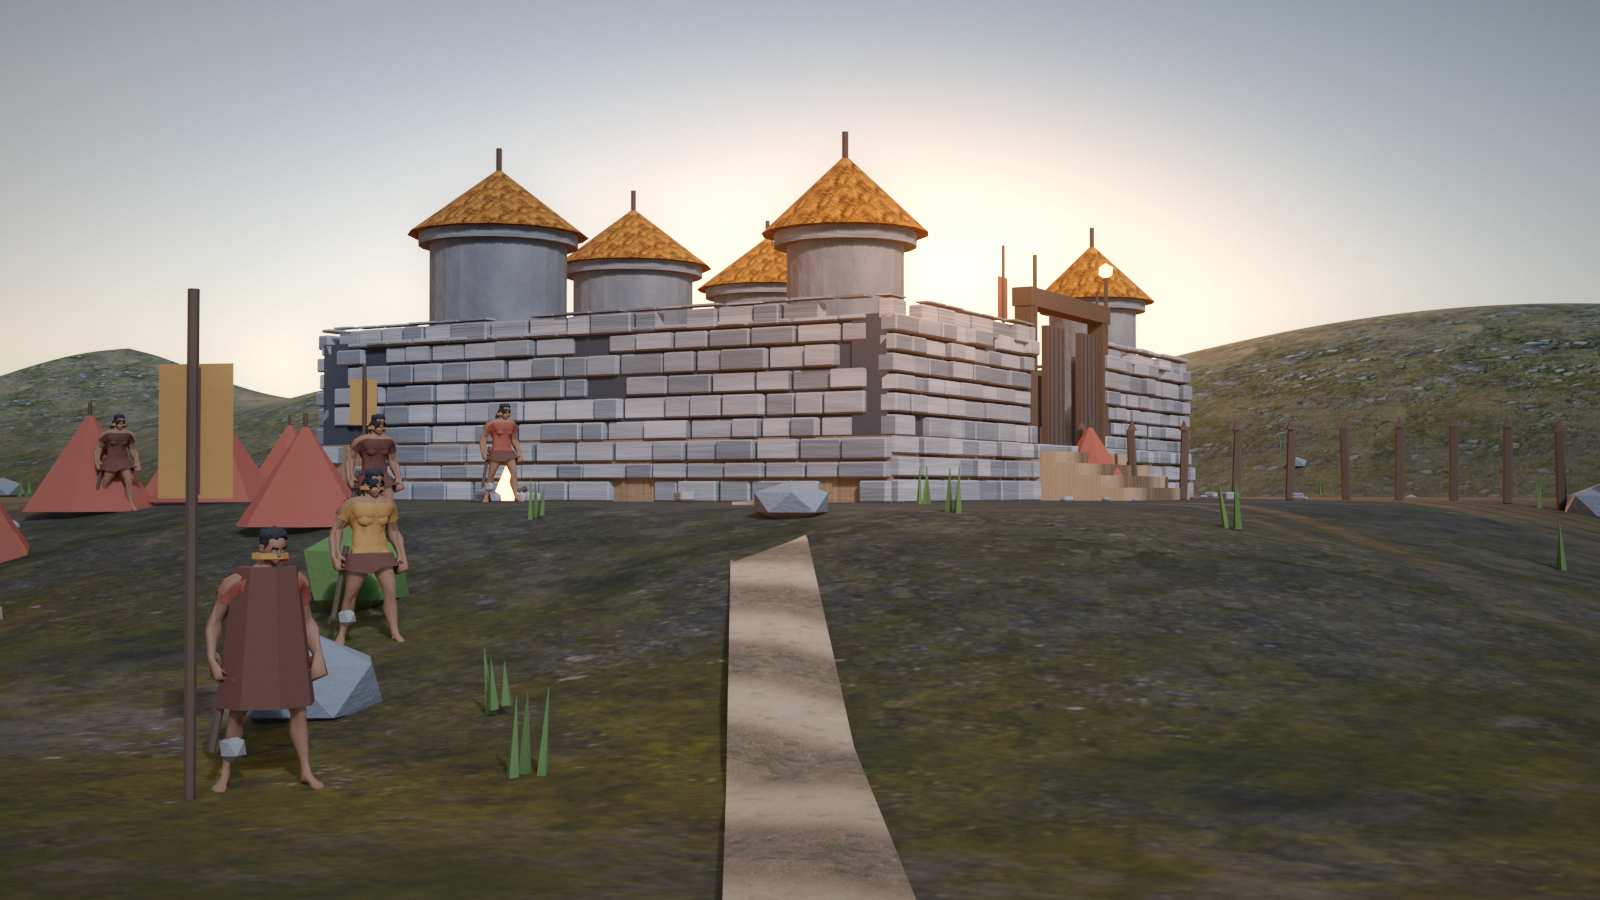
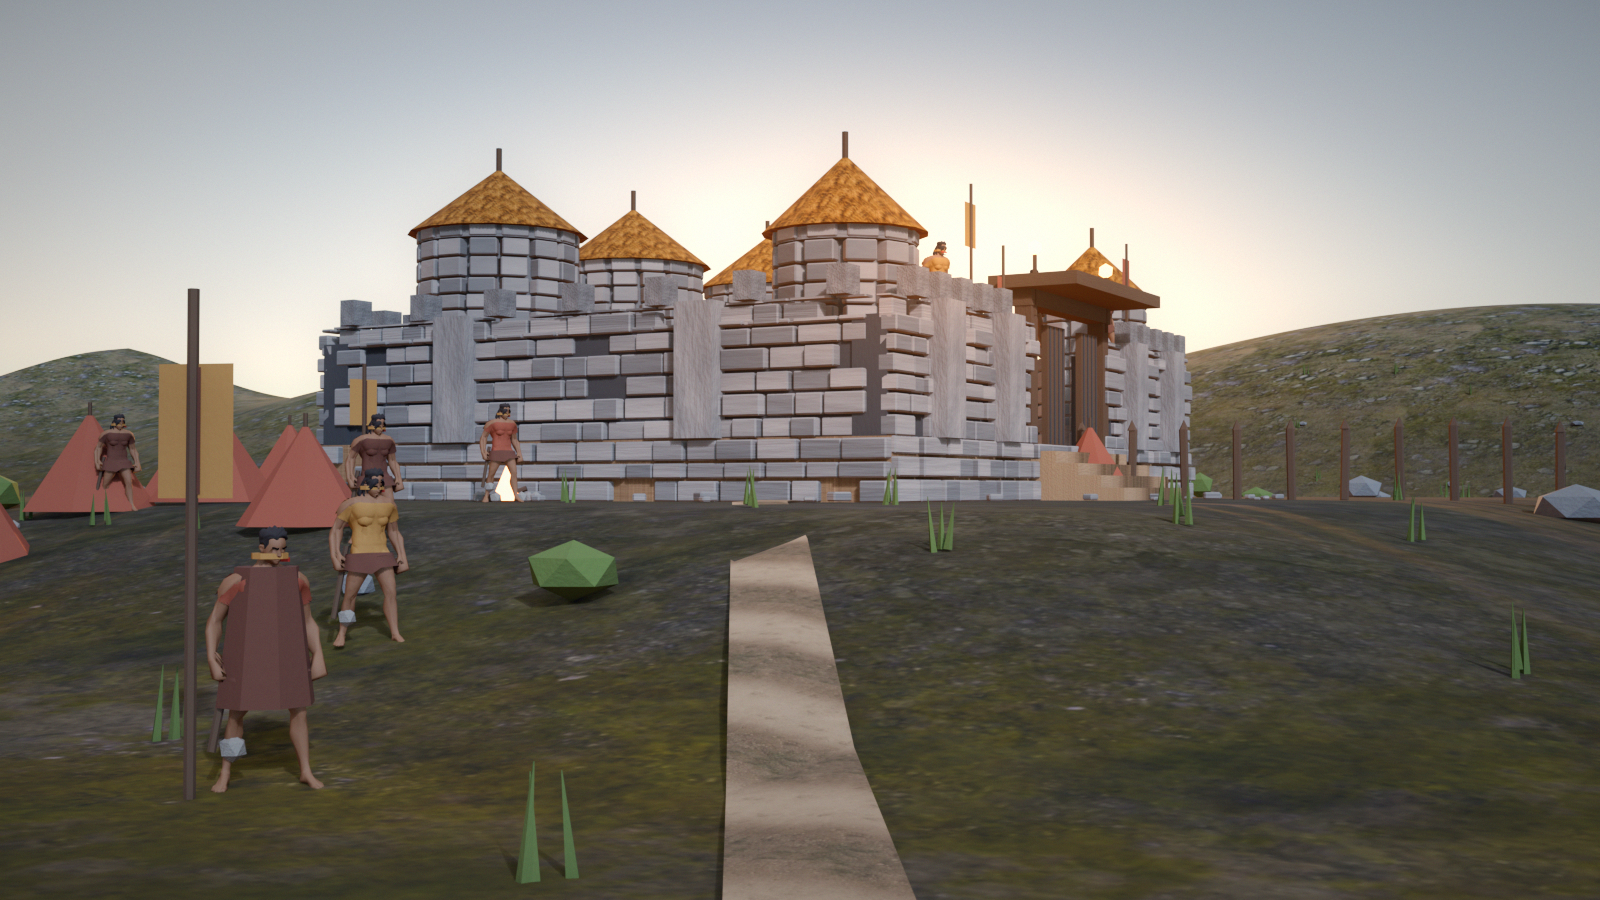
art: detail the m5 pucara and approach
Add tower stone rings, buttresses, merlons, a gate canopy, wall guards, denser masonry and a wider sunset composition. Still a draft, not reviewed.

diff --git a/scripts/blender/build_chanca_intro.py b/scripts/blender/build_chanca_intro.py
@@ -564,6 +564,21 @@ def stone_variant(name: str, base: tuple[float, float, float]):
     return mat
 
 
+def tower_stones(bm, wx, wy, radius, base_z, height):
+    z = base_z
+    while z < base_z + height:
+        h = min(RNG.uniform(0.3, 0.42), base_z + height - z)
+        count = max(9, int((2 * math.pi * radius) / 0.62))
+        for i in range(count):
+            theta = (i / count) * math.tau + RNG.uniform(-0.025, 0.025)
+            yaw = theta + math.pi / 2
+            w = (2 * math.pi * radius / count) * 0.92
+            cx = wx + math.cos(theta) * (radius + 0.12)
+            cy = wy + math.sin(theta) * (radius + 0.12)
+            bm_cube(bm, (cx, cy, z + h / 2), (w, 0.3, h), yaw)
+        z += h + 0.045
+
+
 def build_pucara():
     materials = ROOT / 'src' / 'assets' / 'textures' / 'materials'
     stone_set = [
@@ -613,7 +628,25 @@ def build_pucara():
     wall_stones_z(bm, 8.9, -6.5, 6.5, 8.3, 0.45, depth=0.3)
     make_stone_mesh(bm, 'pucara_parapet', stone_set)
 
+    # buttresses and merlons break the rectangular silhouette
+    for lx, lz in ((-7.0, -6.95), (-4.0, -6.95), (4.0, -6.95), (7.0, -6.95), (-8.95, -3.0), (-8.95, 3.0), (8.95, -3.0), (8.95, 3.0)):
+        add_box('buttress', (*world(lx, lz), 7.5), (0.85, 0.85, 2.6), stone_set[0], (0, 0, PUCARA_YAW))
+    for wall, rng in (
+        ('south', [x for x in range(-8, 9) if abs(x) > 3]),
+        ('north', list(range(-8, 9))),
+        ('west', list(range(-6, 7, 2))),
+        ('east', list(range(-6, 7, 2))),
+    ):
+        for v in rng:
+            if wall in ('south', 'north'):
+                wx, wy = world(v * 1.0, -6.95 if wall == 'south' else 6.95)
+            else:
+                wx, wy = world(-8.95 if wall == 'west' else 8.95, v * 1.0)
+            add_box('merlon', (wx, wy, 9.05), (0.55, 0.4, 0.55), stone_set[1], (0, 0, PUCARA_YAW))
+    add_box('gate_canopy', (*world(0, -7.2), 9.65), (5.6, 2.0, 0.28), wood, (0, 0, PUCARA_YAW))
+
     # towers
+    tower_bm = bmesh.new()
     for lx, lz, radius, height in (
         (-6.0, 4.5, 1.55, 4.6),
         (0.0, 5.0, 1.55, 4.6),
@@ -629,6 +662,8 @@ def build_pucara():
         add_cone('tower_roof', (wx, wy, top_z + 0.95), radius + 0.5, 0.08, 1.5, thatch, 16)
         add_cyl('tower_finial', (wx, wy, top_z + 1.95), 0.07, 0.55, wood, 6)
         add_box('tower_door', (*world(lx, lz - 1.1), 7.15), (0.75, 0.14, 1.5), dark, (0, 0, PUCARA_YAW))
+        tower_stones(tower_bm, wx, wy, radius, 6.3, height + 0.2)
+    make_stone_mesh(tower_bm, 'pucara_tower_stones', stone_set)
 
     # gate, lintel and doors
     for lx in (-2.25, 2.25):
@@ -666,6 +701,8 @@ def build_pucara():
     # banners at the gate and inside
     add_banner((*world(-2.9, -6.6), 6.4), PUCARA_YAW, 4.0, 'cloth')
     add_banner((*world(2.9, -6.6), 6.4), PUCARA_YAW, 3.6, 'cloth_ochre')
+    add_banner((*world(-4.8, -6.7), 8.4), PUCARA_YAW, 3.0, 'cloth_ochre')
+    add_banner((*world(4.8, -6.7), 8.4), PUCARA_YAW, 3.0, 'cloth')
 
     # rubble around the platform
     bm = bmesh.new()
@@ -795,6 +832,9 @@ def add_camp():
     ]
     for i, (x, z, deg, leader) in enumerate(workers):
         add_worker((x, z, ground_height(x, z)), math.radians(deg), variant=i, leader=leader)
+    for lx in (-5.0, 0.0, 5.0):
+        wx, wy = world(lx, -6.1)
+        add_worker((wx, wy, 8.45), math.radians(-8), variant=int(lx) + 3)
 
 
 def add_lighting():
